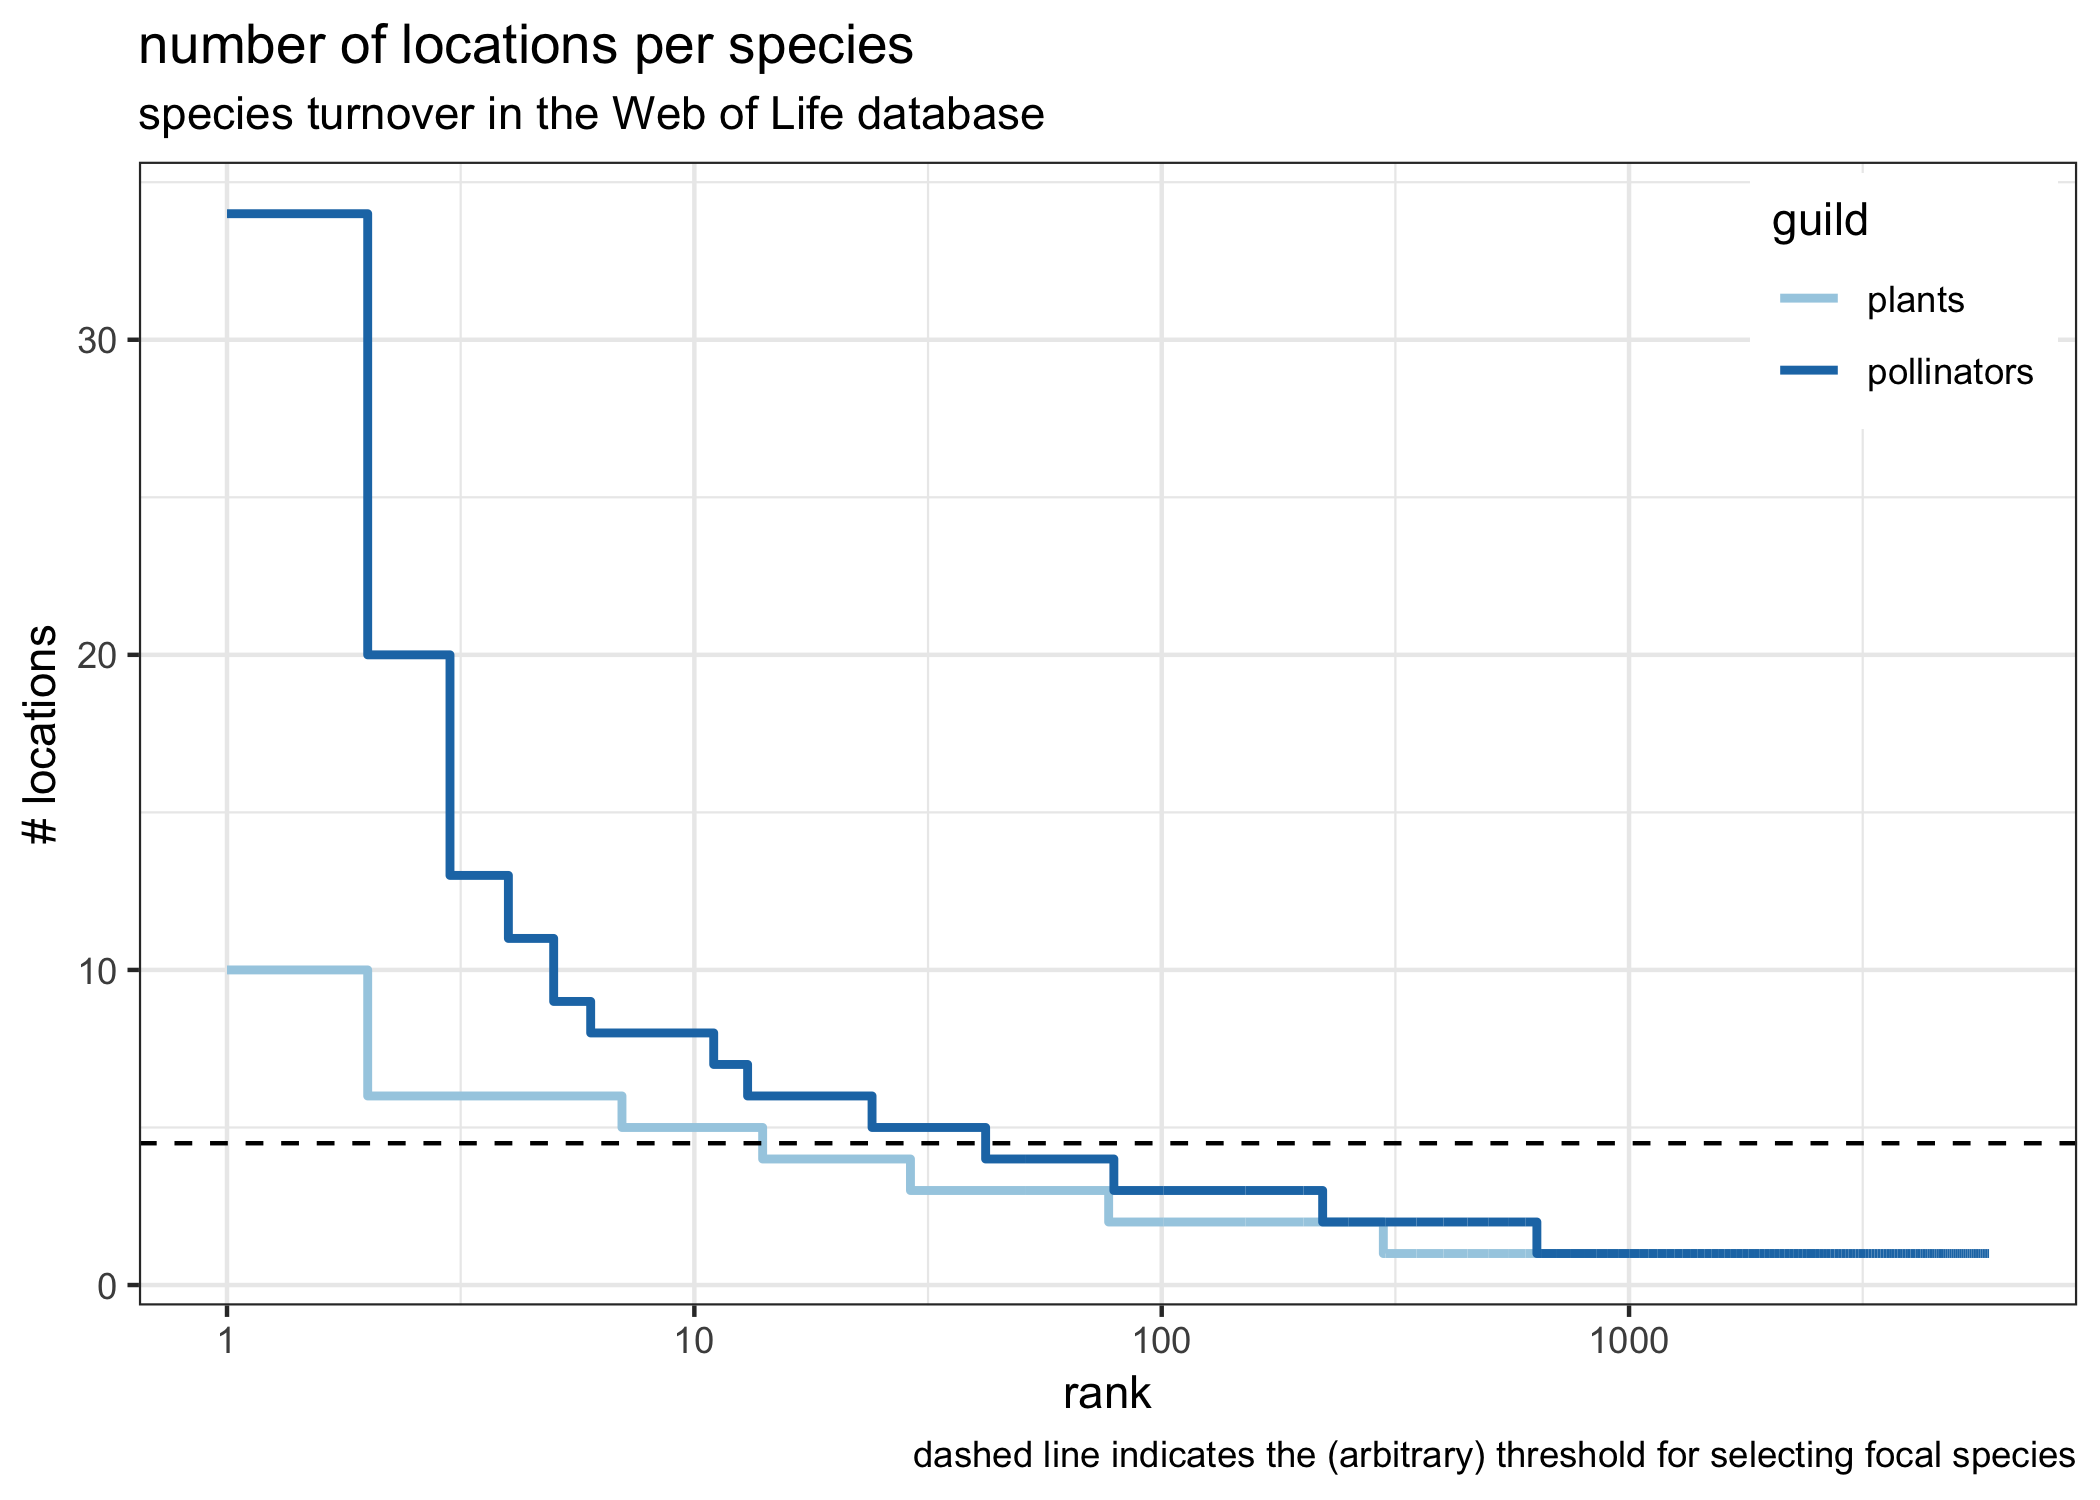
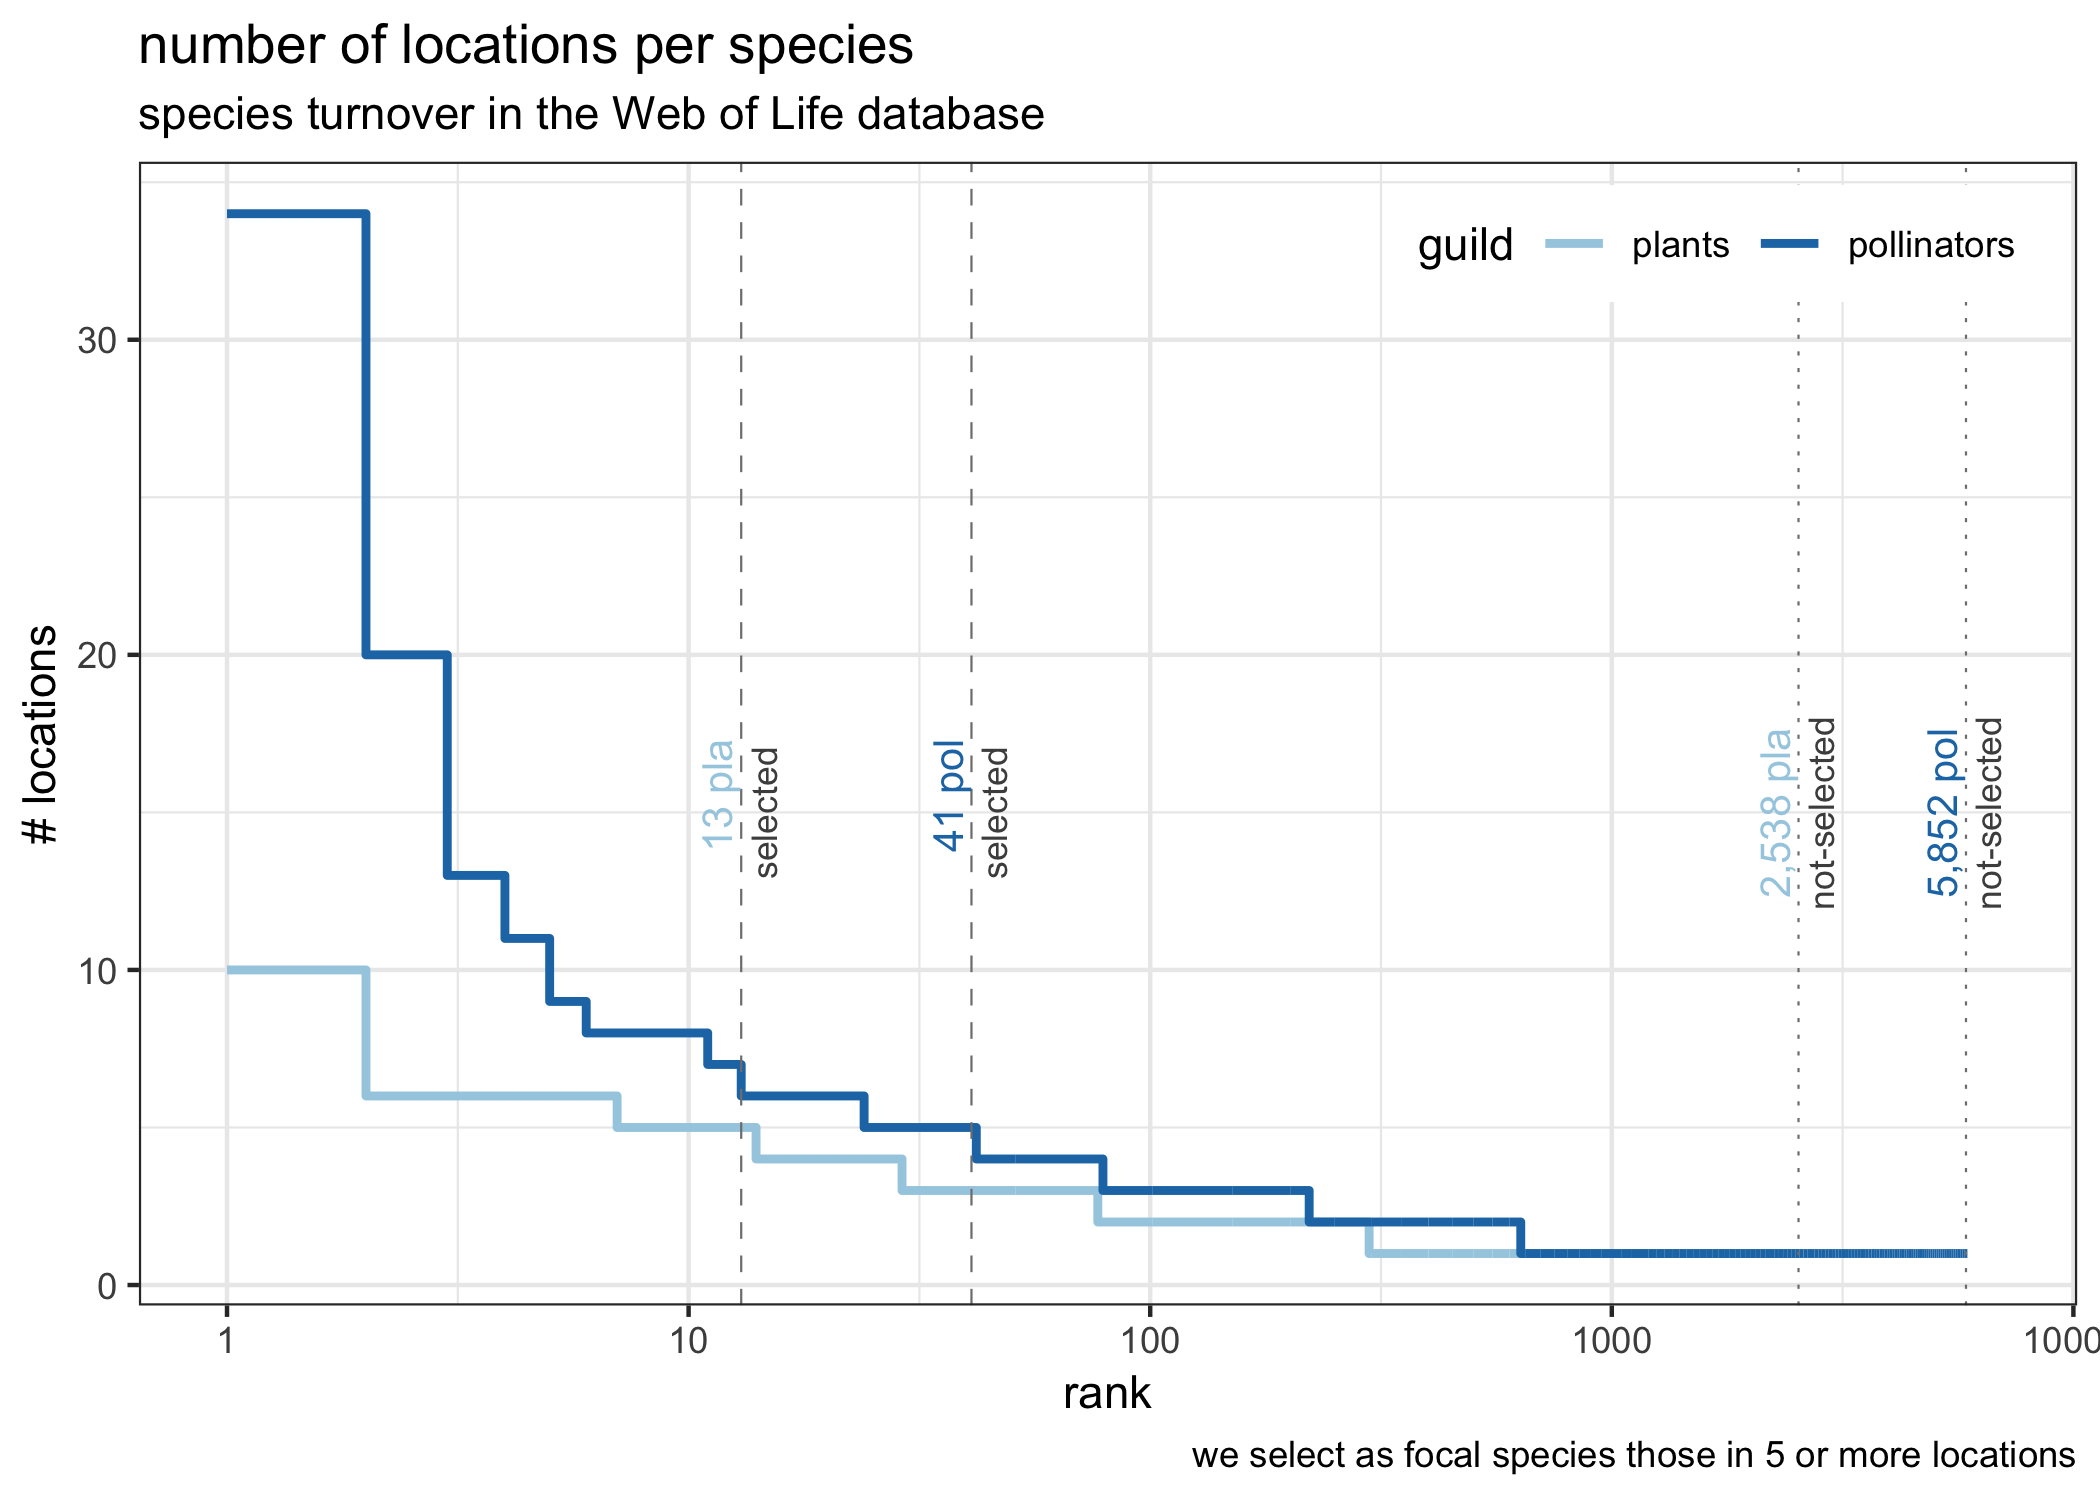
Remove tables, improve figures and add text explanation

diff --git a/paper/data-exploration/turnover.md b/paper/data-exploration/turnover.md
@@ -1,85 +1,27 @@
+Interactions at the fringes, data exploration
+=============================================
+
 We want to investigate whether species interact differently at the core of their range compared to the fringes of their distribution. One could expect species to diversify their interactions as interaction parters become less common/available. Alternatively, one could expect species to interact with only a subset of the interaction partners, as they cannot develop new interactions when environemntal conditions are close to the limits of where possitive groth rates occur.
 
 The aim of this document is to explore whether the interaction data available in the Bascompte's Web of Life could be adequate to answer this question or not.
 
-We start by checking wether species (and interactions) occur in enough localities to be able to detect a change across the species ranges.
-
 Species & interaction turnover
 ------------------------------
 
-### Species turnover
+We start by checking wether species and interactions occur in enough localities. Unknown and unindentified species are excluded from the final numbers.
+
+If species turnover is too high the data might not be adequate to answer the research question. At first we set an arbitrary, but reasonable threshold of **five** locations. We need species to be present in at least this number of locations to have a relatively OK coverage across their range.
+
+With this threshold of five we have 13 plants and 41 pollination species that could be candidates to be focal species.
 
 ![](turnover_files/figure-markdown_github/unnamed-chunk-1-1.png)
 
-|     | guild | species               |  \# locations|
-|-----|:------|:----------------------|-------------:|
-| 1   | pla   | Trifolium repens      |            10|
-| 2   | pla   | Achillea millefolium  |             6|
-| 3   | pla   | Hypochoeris radicata  |             6|
-| 4   | pla   | Ixeris dentata        |             6|
-| 5   | pla   | Prunella vulgaris     |             6|
-| 6   | pla   | Taraxacum officinale  |             6|
-| 7   | pla   | Cerastium alpinum     |             5|
-| 8   | pla   | Cirsium arvense       |             5|
-| 9   | pla   | Fuchsia regia         |             5|
-| 10  | pla   | Lantana camara        |             5|
-| 1   | pol   | Apis mellifera        |            34|
-| 2   | pol   | Eristalis tenax       |            20|
-| 3   | pol   | Episyrphus balteatus  |            13|
-| 4   | pol   | Syritta pipiens       |            11|
-| 5   | pol   | Melanostoma scalare   |             9|
-| 6   | pol   | Bombus terrestris     |             8|
-| 7   | pol   | Bombylius major       |             8|
-| 8   | pol   | Lycaena phlaeas       |             8|
-| 9   | pol   | Melanostoma mellinum  |             8|
-| 10  | pol   | Sphaerophoria scripta |             8|
+We then check the turnover of the interactions. We expect a large degree of turnover here, but if we are to compare interactions at the fringes of a species distributions with those at the core, we need at some of the interactions to be sampled at several locations. These would compose the "core" of the species interactions. At first we set an arbitrary, but reasonable threshold of **three** locations.
 
-### Interaction turnover
+With this threshold we have 44 interactions that repeat over at least three locations or more. Specifically 22 plants and 31 pollinators are involved in these interactions.
 
-![](turnover_files/figure-markdown_github/unnamed-chunk-3-1.png)
-
-|     | plant                 | pollinator               |  \# locations|
-|-----|:----------------------|:-------------------------|-------------:|
-| 1   | Fuchsia regia         | Thalurania glaucopis     |             4|
-| 2   | Hydrangea paniculata  | Lasioglossum apristum    |             4|
-| 3   | Hypochoeris radicata  | Episyrphus balteatus     |             4|
-| 4   | Lathyrus pratensis    | Bombus pascuorum         |             4|
-| 5   | Persicaria thunbergii | Eristalis cerealis       |             4|
-| 6   | Astilbe thunbergii    | Lasioglossum apristum    |             3|
-| 7   | Calluna vulgaris      | Apis mellifera           |             3|
-| 8   | Calluna vulgaris      | Episyrphus balteatus     |             3|
-| 9   | Calluna vulgaris      | Eristalis tenax          |             3|
-| 10  | Calluna vulgaris      | Mellinus arvensis        |             3|
-| 11  | Cirsium arvense       | Bombus lapidarius        |             3|
-| 12  | Cirsium arvense       | Bombus terrestris        |             3|
-| 13  | Cirsium arvense       | Maniola jurtina          |             3|
-| 14  | Cistus salvifolius    | Apis mellifera           |             3|
-| 15  | Deutzia crenata       | Eristalis cerealis       |             3|
-| 16  | Deutzia crenata       | Sphaerophoria menthastri |             3|
-| 17  | Epilobium latifolium  | Nysius groenlandicus     |             3|
-| 18  | Fuchsia regia         | Clytolaema rubricauda    |             3|
-| 19  | Galactites tomentosa  | Apis mellifera           |             3|
-| 20  | Galium propinquum     | Heteria appendiculata    |             3|
+![](turnover_files/figure-markdown_github/unnamed-chunk-2-1.png)
 
 ### Degree vs. widespread
 
-![](turnover_files/figure-markdown_github/unnamed-chunk-6-1.png)
-
-| guild | species               |  \# locations|  degree|
-|:------|:----------------------|-------------:|-------:|
-| pla   | Fuchsia regia         |             5|       6|
-| pla   | Ixeris dentata        |             6|      38|
-| pla   | Hypochoeris radicata  |             6|      72|
-| pla   | Cirsium arvense       |             5|      83|
-| pol   | Andrena Knuthi        |             5|       9|
-| pol   | Clytolaema rubricauda |             5|      16|
-| pol   | Helophilus virgatus   |             6|      24|
-| pol   | Maniola jurtina       |             7|      30|
-| pol   | Thalurania glaucopis  |             5|      31|
-| pol   | Bombus lapidarius     |             6|      33|
-| pol   | Bombus terrestris     |             8|      42|
-| pol   | Eristalis cerealis    |             6|      49|
-| pol   | Bombus pascuorum      |             6|      55|
-| pol   | Eristalis tenax       |            20|     107|
-| pol   | Episyrphus balteatus  |            13|     143|
-| pol   | Apis mellifera        |            34|     444|
+![](turnover_files/figure-markdown_github/unnamed-chunk-5-1.png)
